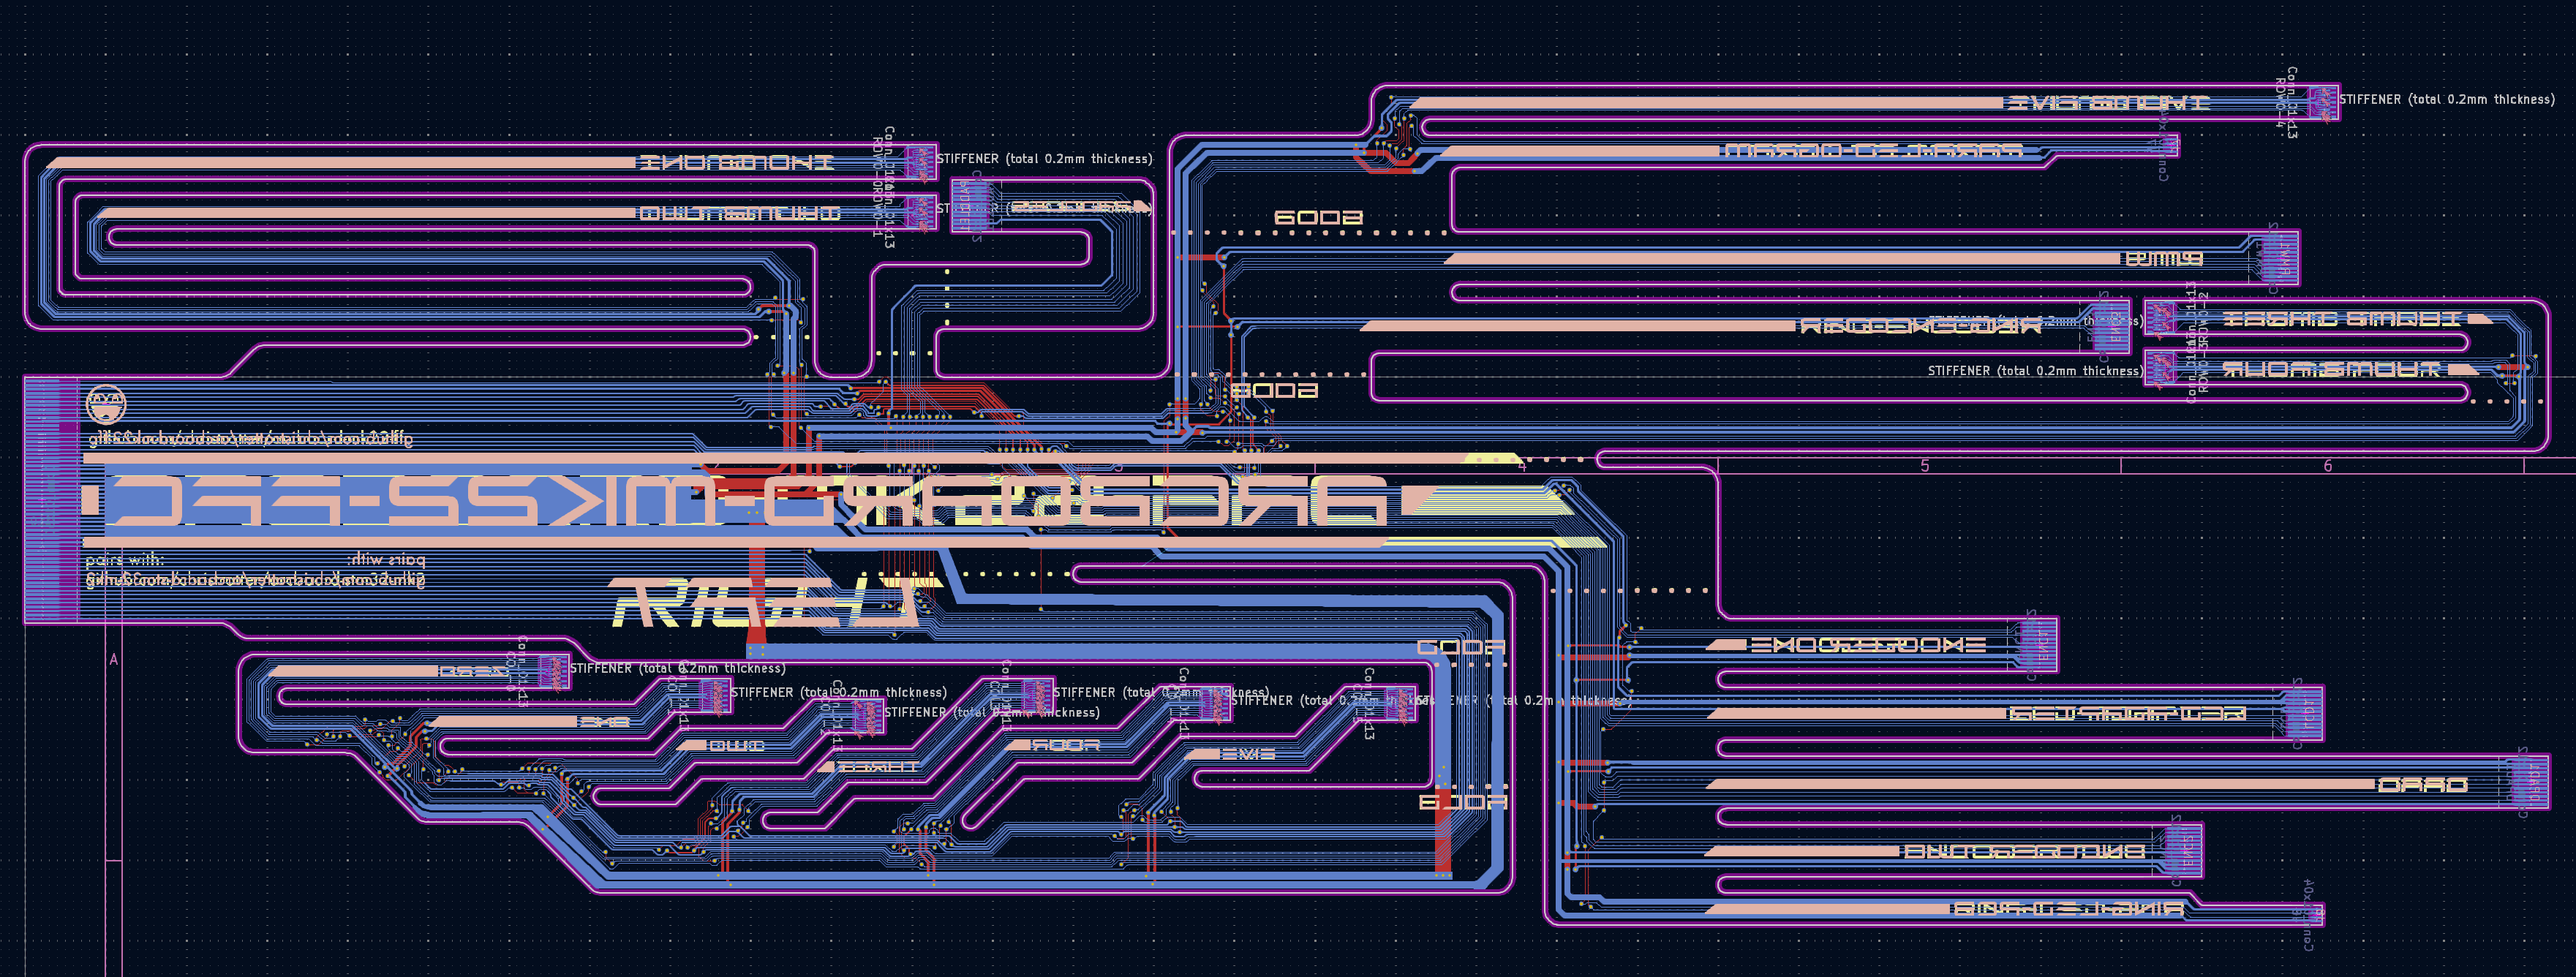
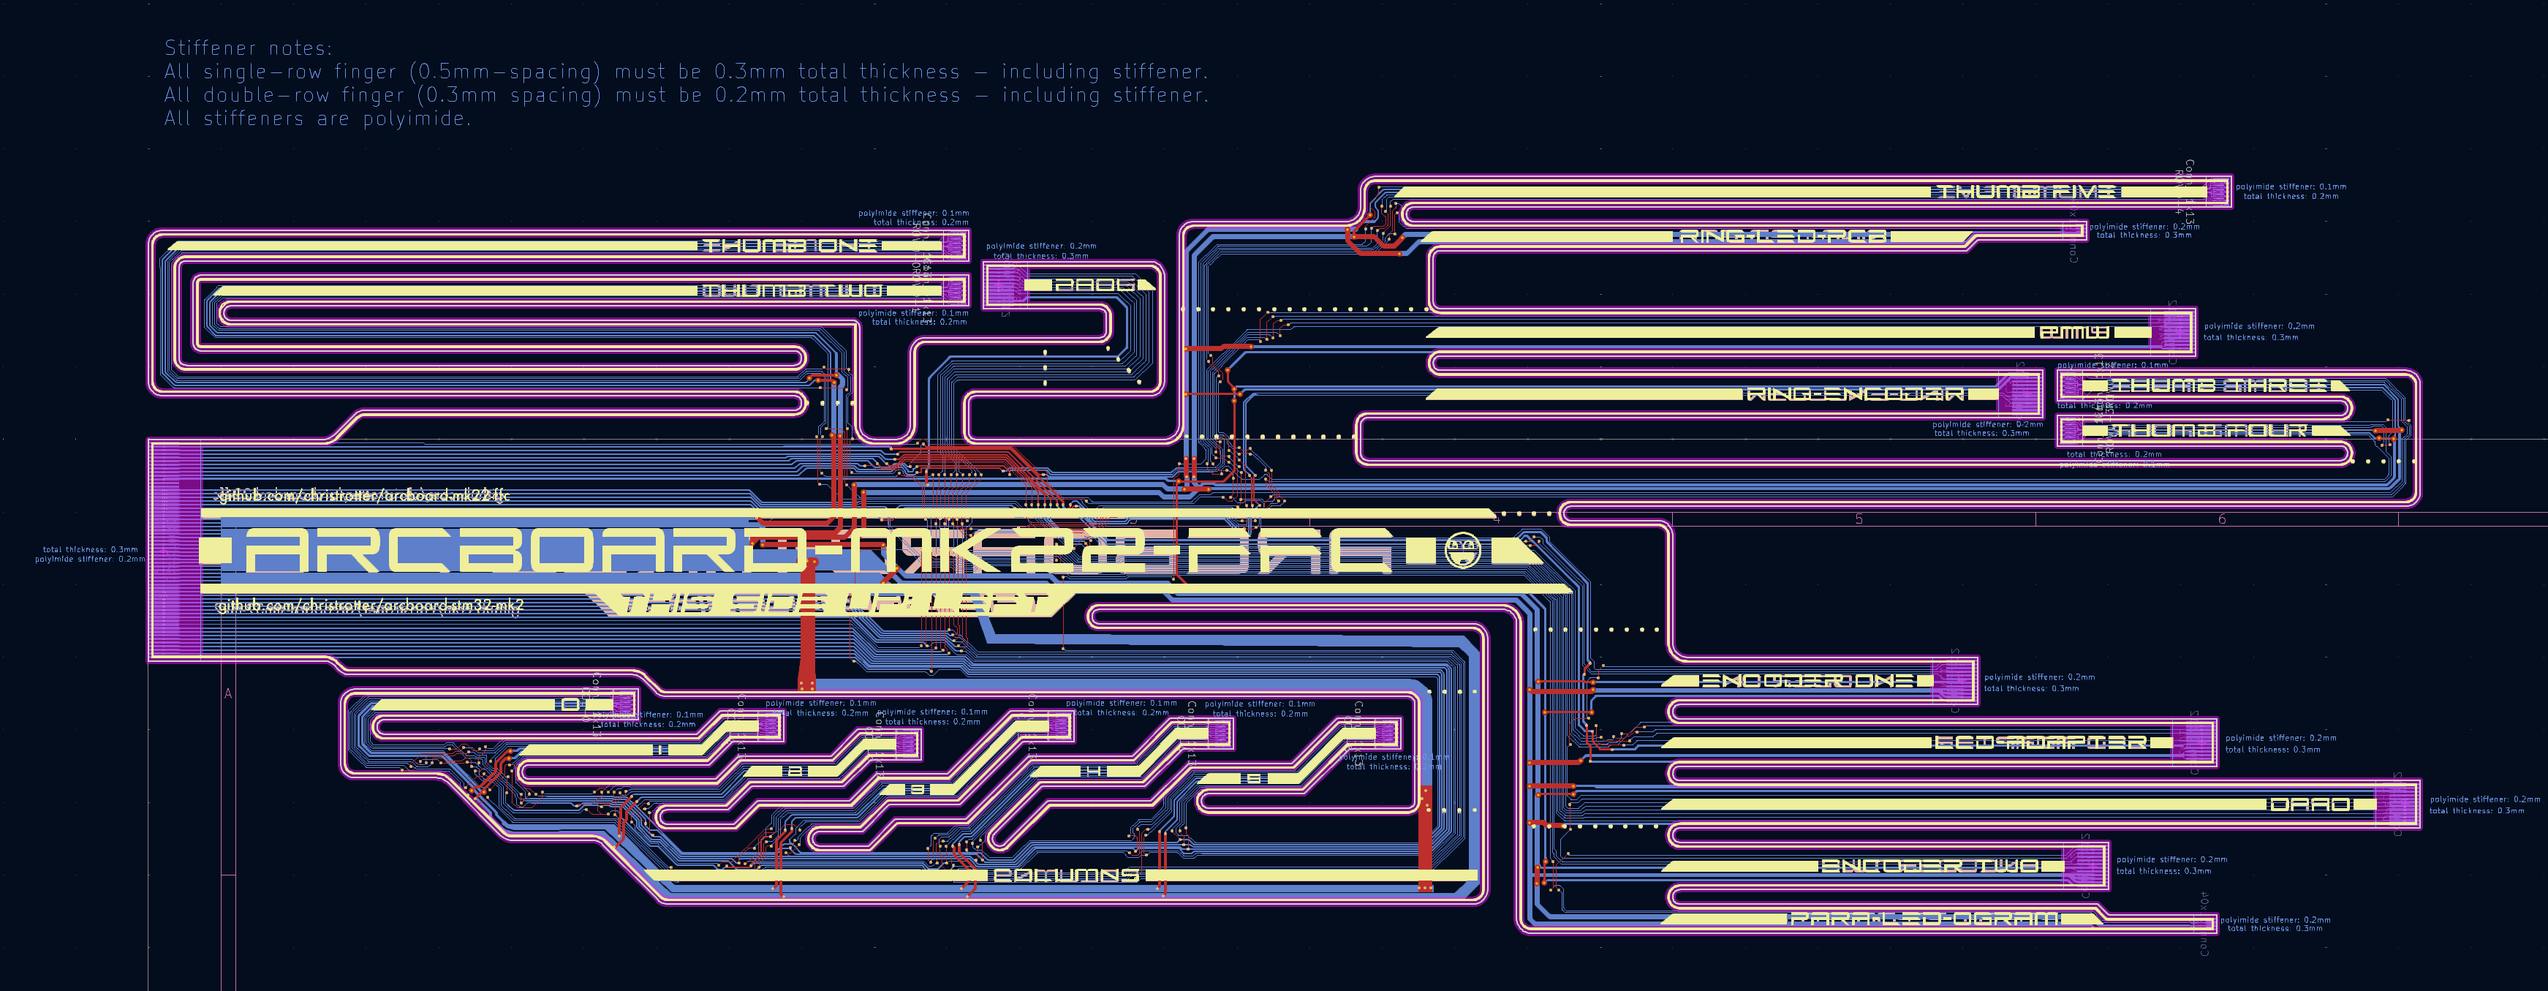
updating readme and images

diff --git a/README.md b/README.md
@@ -1,22 +1,21 @@
 # arcboard-mk22-ffc
-![Render](images/render.png)
+![Header](images/header.jpeg)
 FFC wiring harness for the Arcboard mk22's [mainboard](https://github.com/christrotter/arcboard-stm32-mk2).  Hooks up a whole pile of keys, peripherals, and indicators with a single cable.  
 
 The goal was to reduce manual soldering as much as possible while also reducing the number of FFC's coming off the mainboard.  [The old mainboard](https://github.com/christrotter/arcboard-stm32) had 10 FFCs coming off at all angles and it was a nightmare to install.
 
-## ordering
-**VERY IMPORTANT:** This FFC design lacks stiffeners, and this is by design!
+All questions, and more, answered here: 
+[Walking through the process of making a custom FFC.](https://docs.google.com/document/d/1AaeZN3C4SzMbZbiK-B96kASK0Lhcgzr27FD6T2ESAdA/edit?usp=sharing)
 
-Because the 0.3mm-pitch connectors require thinner stiffener, and we're using 0.5mm-pitch connectors for everything non-Cyboard, I need to use EasyEDA to do the final work.
-Why?  Because not only does JLC prefer it, but it allows you to specify metadata on each stiffener, like material and thickness.  
+And if you're interested in learning more about the board itself:
+[The mk22 build journal - in great detail.](https://docs.google.com/document/d/1yYdNSWEpefUsuglO4ZzcITcItB_Wx3liXkT57BLO2Ac/edit?usp=sharing)
 
-Giant premise: You can do different stiffener types in a single board.  I am hopeful of this because their docs show that you can use different materials.  It stands to reason different thicknesses is also ok.
+# ordering
+See the 'making a custom FFC' doc for great detail on this.
 
-Specifically, the different pitch sizes require different total FFC thicknesses.
+The different pitch sizes require different total FFC thicknesses.
 - 0.3mm-pitch -> 0.2mm thick FFC, including stiffener
 - 0.5mm-pitch -> 0.3mm thick FFC, including stiffener (connector specs range from `0.27-0.33mm` to `0.29-0.31mm`)
-
-I'll write up more detail about the EasyEDA process once done.
 
 ## peripherals
 But what peripherals does this hook up?
@@ -32,15 +31,10 @@ But what peripherals does this hook up?
 - [three paddles (3x 5-way)](https://github.com/christrotter/multi-paddle-pcb)
 - [PMW3360 to FFC](https://github.com/christrotter/charybdis-pmw-3360-sensor-pcb/tree/arcboarding) (*forked from* [Charybdis](https://github.com/Bastardkb/charybdis-pmw-3360-sensor-pcb))
 
-![Front and back](images/render-front-back.png)
+![Render](images/render.png)
+![Front](images/render-front.png)
+![Back](images/render-back.png)
 
-## development notes
-- A lot of paper and tape was used.
-- I printed out both right and left halves, plus printed the mainboard step file in PLA, plus made a mirror-able jig to mimic the shell
-- Then a lot of fiddle-faddling, taping it in place, folding it, bending it, cutting/adjusting... a week or two of this.
-
-[Mapping out the FFC in detail.](https://docs.google.com/document/d/1AaeZN3C4SzMbZbiK-B96kASK0Lhcgzr27FD6T2ESAdA/edit?usp=sharing)
-[The build journal - in great detail.](https://docs.google.com/document/d/1yYdNSWEpefUsuglO4ZzcITcItB_Wx3liXkT57BLO2Ac/edit?usp=sharing)
 
 ### what if only one half has a trackball?
 The theory is I tape or cap off the PMW endpoint on the left half.
@@ -50,6 +44,3 @@ The theory is I tape or cap off the PMW endpoint on the left half.
 
 ## PCB layout
 ![PCB layout](images/pcb-layout.png)
-
-## other
-This is a FFC (flat flexible cable) or FPC (flexible printed circuit) - I am uncertain which term is right, so I go with FFC.
